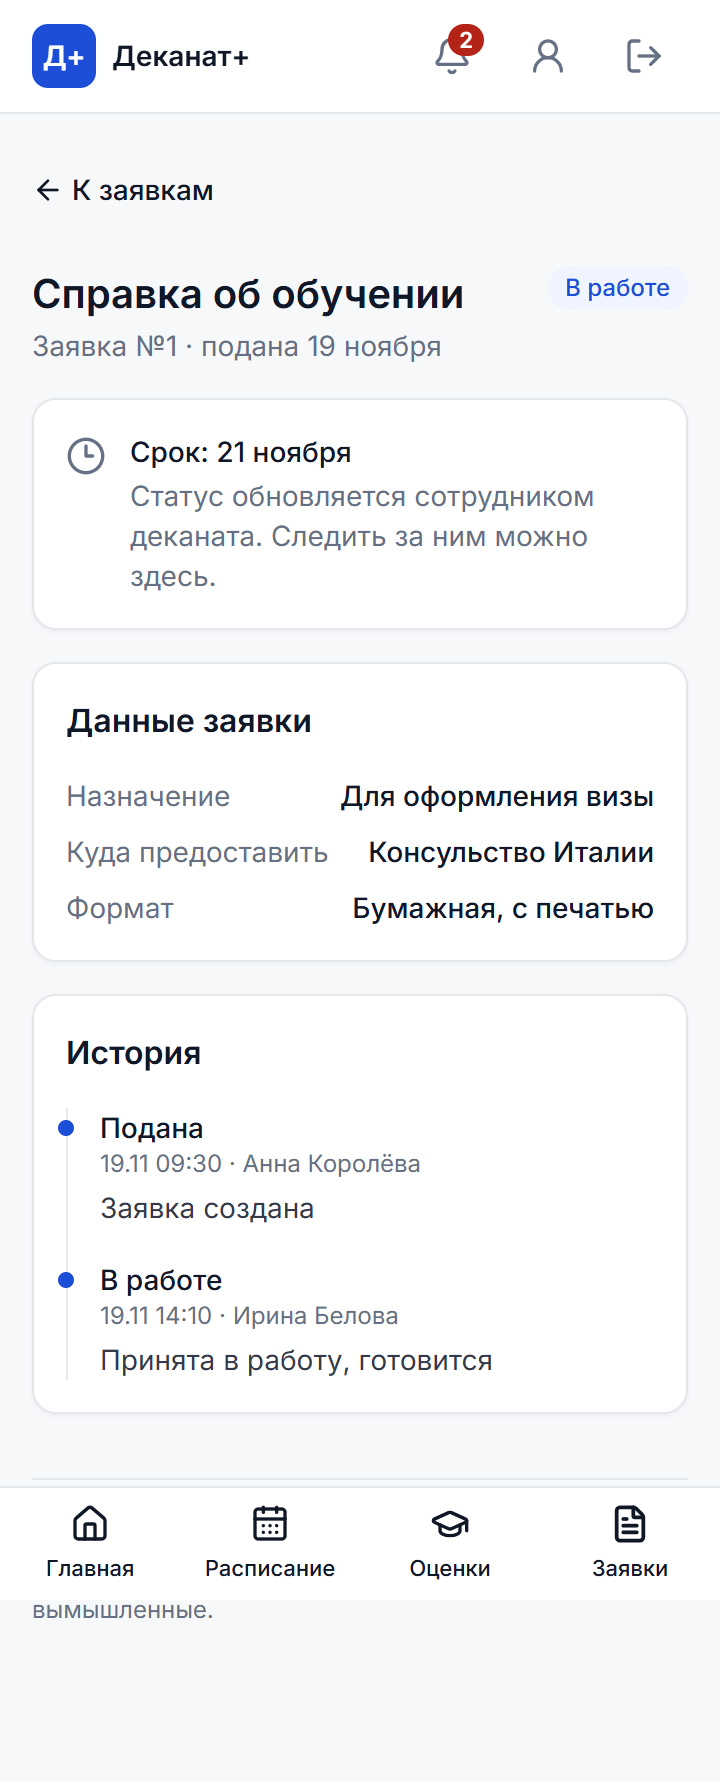
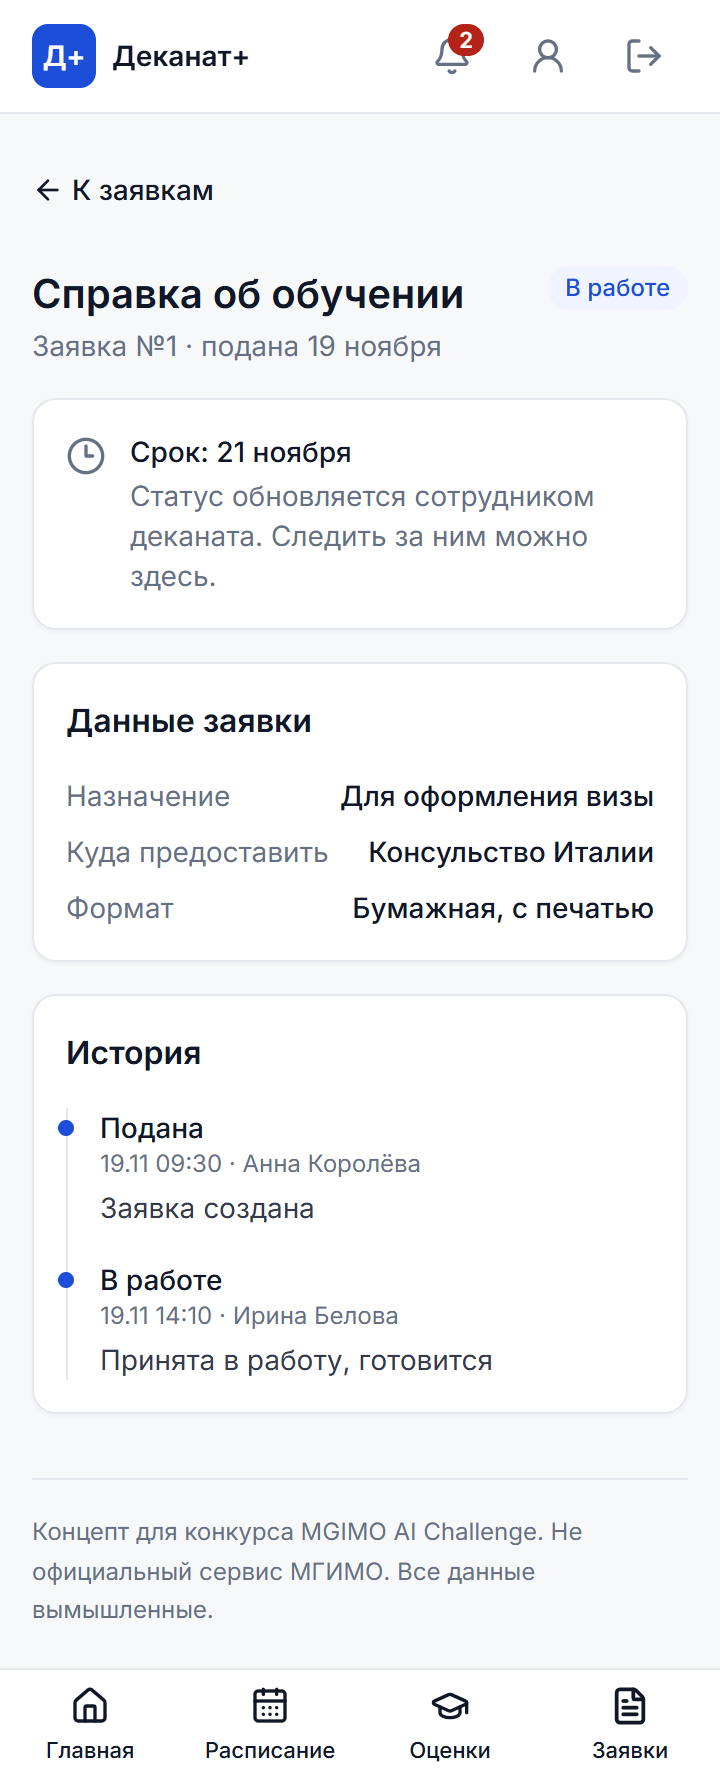
«Что изменилось» без скрытого состояния, фильтры переносятся, скриншоты по высоте контента
Окно изменений теперь фиксированное — последние трое суток; колонка last_seen_at
удалена, блок не пустеет при повторном открытии. Фильтры очереди деканата
переносятся вместо обрезки. Скриншоты сняты по высоте контента: нижняя навигация
больше не попадает в середину кадра.

diff --git a/server/repo.ts b/server/repo.ts
@@ -470,15 +470,16 @@ export function dashboard(user: SessionUser): DashboardData {
   const weekEnd = addDays(weekStart, 7);
   const week = lessonsForRange(user.groupName, weekStart.toISOString(), weekEnd.toISOString());
 
-  const seen = db
-    .prepare(`SELECT last_seen_at FROM users WHERE id = ?`)
-    .get(user.id) as { last_seen_at: string | null };
-  const since = seen.last_seen_at ?? addDays(now, -3).toISOString();
-
-  const sinceMs = new Date(since).getTime();
+  // Окно изменений фиксировано: последние трое суток. Так блок не зависит от
+  // скрытого «последнего визита» и не пустеет при повторном открытии.
+  const sinceMs = addDays(now, -3).getTime();
   const changes: DashboardData['changes'] = [];
   for (const lesson of week) {
-    if (lesson.status !== 'normal' && lesson.previousStartsAt && lesson.startsAt >= since) {
+    if (
+      lesson.status !== 'normal' &&
+      lesson.previousStartsAt !== null &&
+      new Date(lesson.startsAt).getTime() >= sinceMs
+    ) {
       changes.push({
         id: `lesson-${lesson.id}`,
         kind: 'schedule',
@@ -489,7 +490,7 @@ export function dashboard(user: SessionUser): DashboardData {
     }
   }
   for (const grade of grades(user.id)) {
-    if (grade.grade !== null && grade.updatedAt >= since) {
+    if (grade.grade !== null && new Date(grade.updatedAt).getTime() >= sinceMs) {
       changes.push({
         id: `grade-${grade.enrollmentId}`,
         kind: 'grade',
@@ -529,13 +530,6 @@ export function dashboard(user: SessionUser): DashboardData {
   );
 
   const upcoming = nextLesson(user.groupName, now.toISOString());
-
-  // Точку отсчёта двигаем не чаще раза в 30 минут: иначе повторное открытие
-  // главной во время демонстрации обнуляло бы список изменений.
-  const lastSeenMs = seen.last_seen_at ? new Date(seen.last_seen_at).getTime() : 0;
-  if (now.getTime() - lastSeenMs > 30 * 60 * 1000) {
-    db.prepare(`UPDATE users SET last_seen_at = ? WHERE id = ?`).run(now.toISOString(), user.id);
-  }
 
   return {
     user,

diff --git a/server/index.ts b/server/index.ts
@@ -113,8 +113,6 @@ app.post('/api/login', (req, res) => {
 
   clearLoginFailures(email);
   createSession(res, row.id);
-  // last_seen_at обновляется только при просмотре главной: иначе «что изменилось»
-  // теряет точку отсчёта сразу после входа.
   audit(row.id, 'login.success', 'user', row.id, {});
   res.json({ ok: true, role: row.role });
 });

diff --git a/src/pages/staff/StaffRequests.tsx b/src/pages/staff/StaffRequests.tsx
@@ -38,7 +38,7 @@ export default function StaffRequestsPage() {
     <div className="space-y-4">
       <h1 className="text-xl font-semibold sm:text-2xl">Очередь заявок</h1>
 
-      <div className="flex gap-1 overflow-x-auto pb-1">
+      <div className="flex flex-wrap gap-1.5">
         {filters.map((filter) => (
           <button
             key={filter.value}

diff --git a/server/db.ts b/server/db.ts
@@ -23,7 +23,6 @@ export function migrate(): void {
       program TEXT NOT NULL DEFAULT '',
       course INTEGER NOT NULL DEFAULT 1,
       group_name TEXT NOT NULL DEFAULT '',
-      last_seen_at TEXT,
       created_at TEXT NOT NULL
     );
 

diff --git a/docs/06-iterations.md b/docs/06-iterations.md
@@ -63,12 +63,13 @@
 
 | Поле | Значение |
 |---|---|
-| Симптом | блок «Что изменилось» пуст при первом открытии |
-| Причина | `last_seen_at` обновлялся прямо при входе, точка отсчёта совпадала с моментом запроса |
+| Симптом | блок «Что изменилось» пуст при первом открытии, а после демонстрационного обновления страницы пустел снова |
+| Причина | точка отсчёта хранилась в `last_seen_at` и сдвигалась при каждом заходе: скрытое состояние управляло видимым контентом |
 | Первое исправление | убрали обновление при логине |
-| Второй симптом | повторное открытие главной во время демонстрации обнуляло список |
-| Итоговое решение | точка отсчёта сдвигается не чаще раза в 30 минут |
+| Второй симптом | повторное открытие главной всё равно обнуляло список |
+| Итоговое решение | колонка `last_seen_at` удалена; окно изменений фиксировано — последние трое суток |
 | Побочный дефект | даты сравнивались строками; заменено на числовое сравнение |
+| Почему так лучше | блок предсказуем для жюри и не зависит от того, сколько раз страницу открывали |
 
 ### И7. Оценки выглядели «выставленными только что»
 
